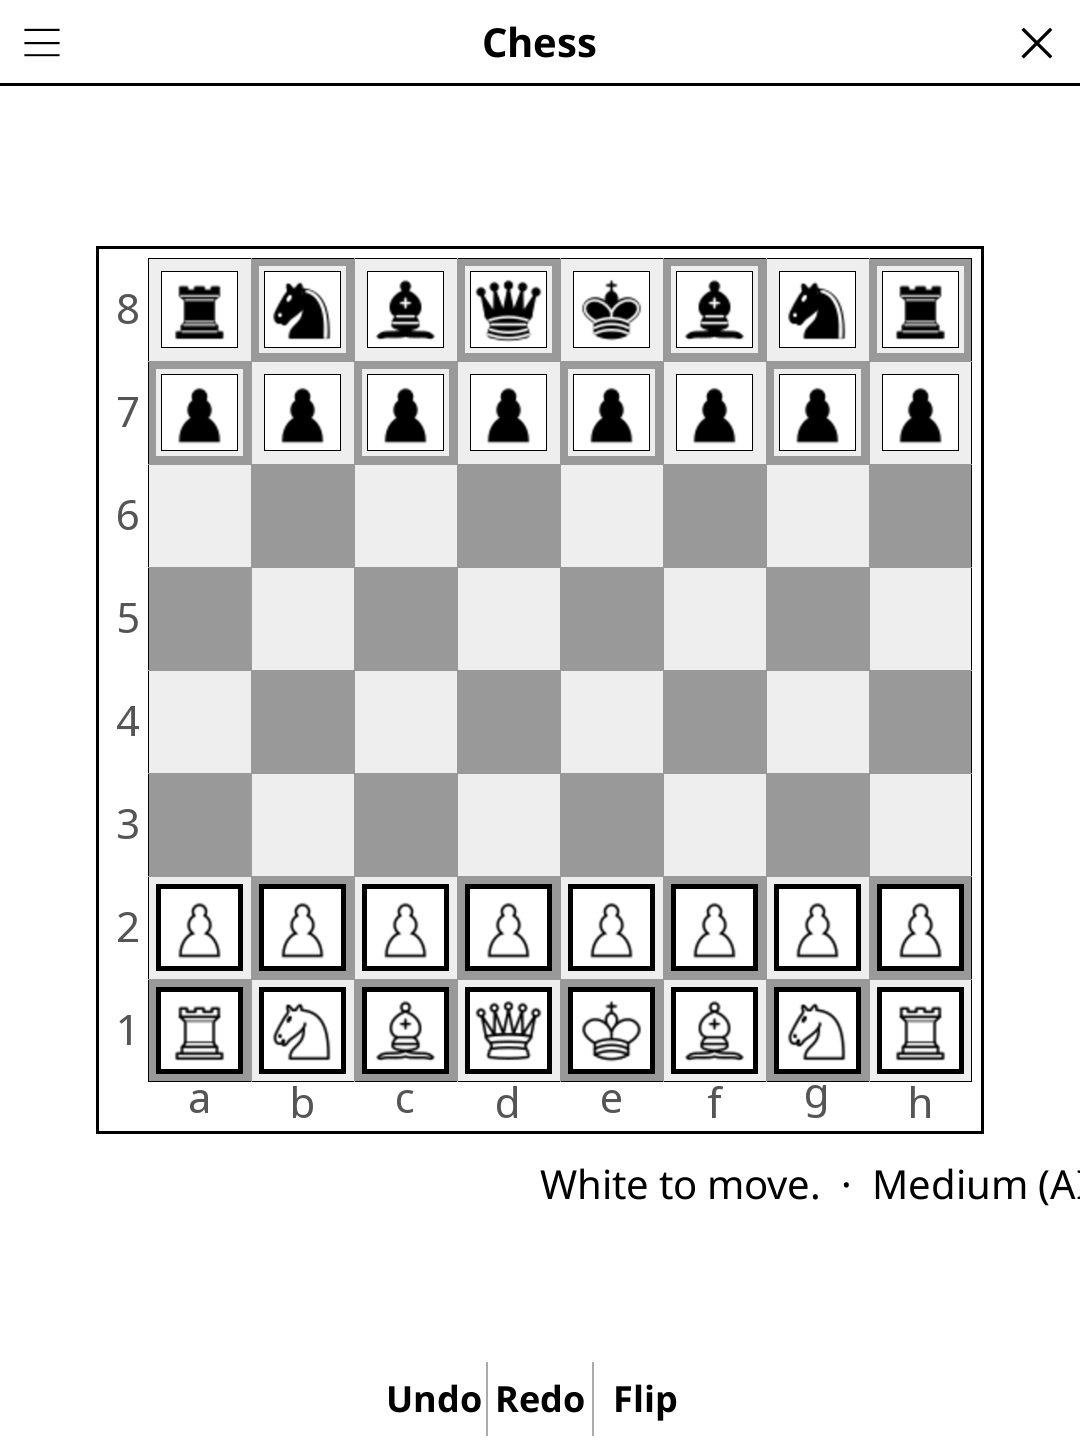
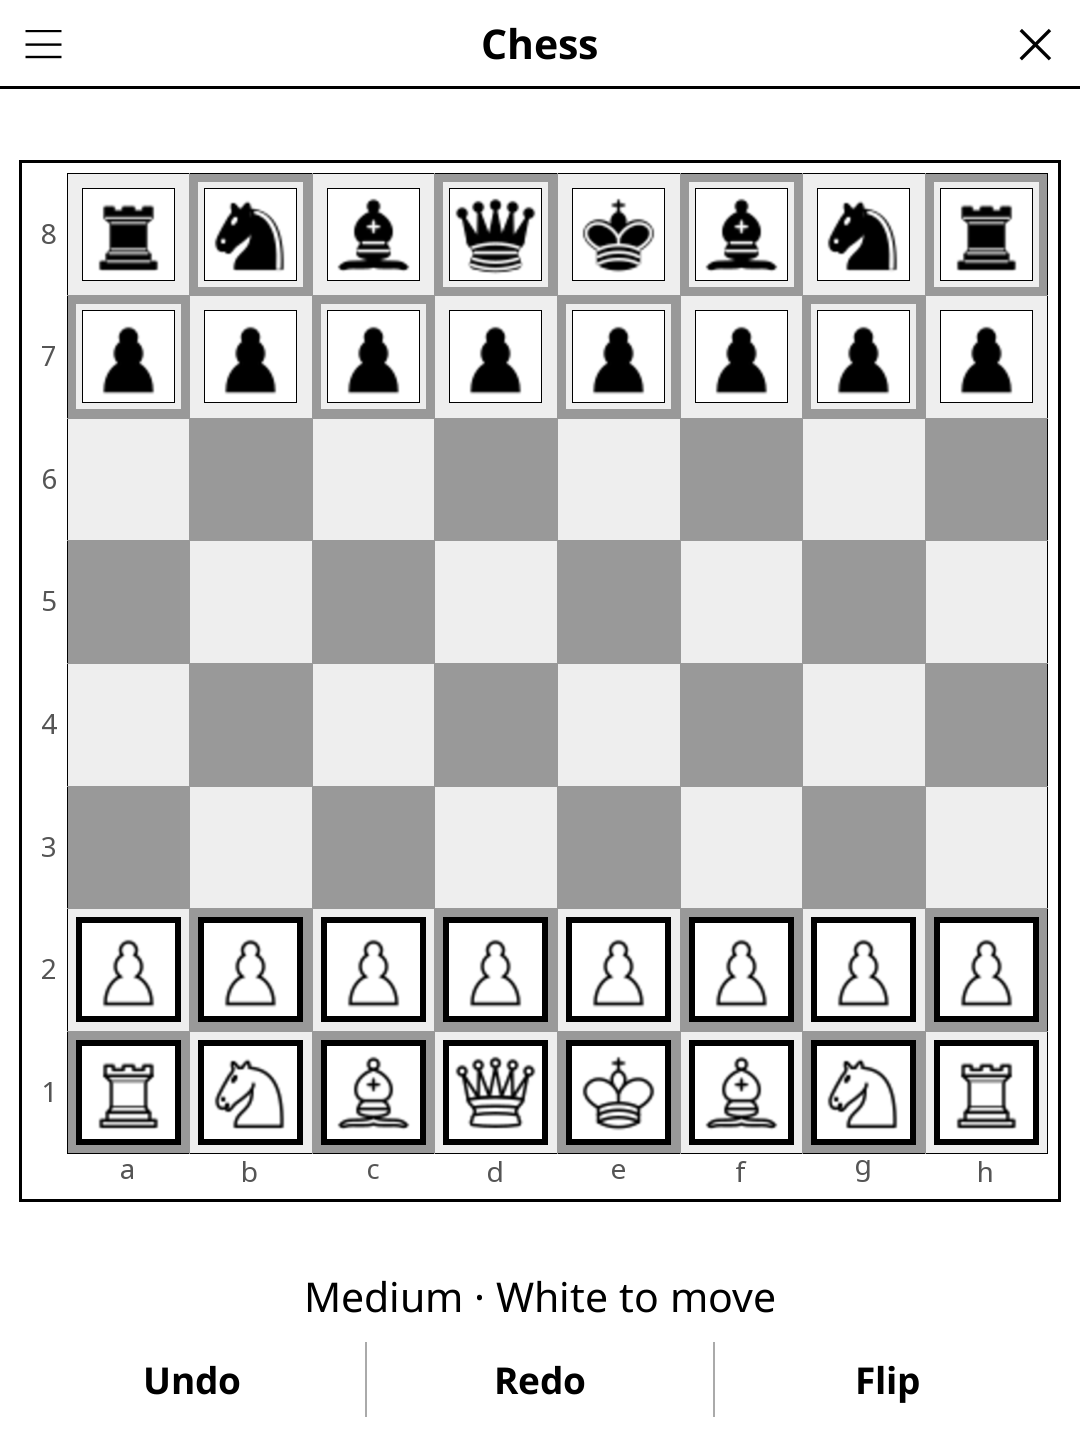
release: 1.2.0 -- redesigned screen, harmonised menu, New game at round end
Screen redesign (full-width action bar, unified pad, status line, larger
board), harmonised title-bar menu, and a "New game" button once the round
is over. See CHANGELOG.md.

diff --git a/CHANGELOG.md b/CHANGELOG.md
@@ -2,6 +2,25 @@
 
 All notable changes to this project will be documented in this file.
 
+## [1.2.0] - 2026-10-30
+
+### Changed
+- Redesigned play screen: the board fills the room the controls leave, with a
+  full-width Undo/Redo/Flip bar.
+- Title-bar menu in the shared order, with current values: New game (was
+  "New"), "Difficulty: Medium", "Players: 1", "Clock: 10+0" (or "Disabled"),
+  "Engine: Home" when a UCI engine is installed, then Export/Import PGN and
+  Rules. Players, Clock and Engine used to show no value.
+- The status line reads "Medium · White to move" (the "(AI=Black)" part is
+  gone) and wraps in landscape instead of being cut off.
+- Once the game is over (checkmate, stalemate, draw or flag fall), the action
+  bar shows "New game" in place of Undo/Redo/Flip.
+
+### Fixed
+- The rank and file labels around the board, and the letters used for pieces
+  on very small squares, were scaled by DPI twice and came out too large on
+  high-DPI screens; they are now sized in pixels and centred.
+
 ## [1.1.21] - 2026-10-01
 
 ### Fixed

diff --git a/README.md b/README.md
@@ -45,17 +45,17 @@ Standard chess rules. Move pieces to put the opponent's king in checkmate. Speci
 | Move to a square | Tap the destination |
 | Undo last move | Tap **Undo** |
 | Redo last undone move | Tap **Redo** |
-| New game | Tap **New** |
+| New game | Tap **New game** |
 | Show rules | Tap **Rules** |
-| Configure clock | Tap **Pendule** |
-| Export/import PGN | Tap **Exporter PGN** / **Importer PGN** |
+| Configure clock | Tap **Clock** |
+| Export/import PGN | Tap **Export PGN** / **Import PGN** |
 
 ## Known limitations
 
 The optional Stockfish/UCI engine is not bundled with this plugin. It is
 only available if you supply your own compatible UCI engine binary at
 `bin/stockfish` inside the plugin folder. When no such binary is present
-(the default), the **Moteur** menu entry is hidden entirely and the game
+(the default), the **Engine** menu entry is hidden entirely and the game
 uses only the built-in engine — nothing needs to be configured either way.
 
 ## License
